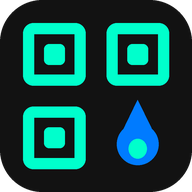
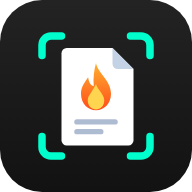
Nuove icone: foglio del rapporto con fiamma e mirino del QR
Sostituiscono il QR con la goccia: rappresentano il rapporto di intervento
sulla caldaia letto con la scansione. Sorgente SVG e script per i PNG.

Claude-Session: https://claude.ai/code/session_018KmDBTdfeKwPLaMZ2Z1mmm

diff --git a/sw.js b/sw.js
@@ -1,6 +1,6 @@
 // Service worker: salva tutti i file dell'app per l'uso offline.
 // Dopo ogni modifica ai file aumentare la versione, così i telefoni scaricano l'aggiornamento.
-const CACHE = 'testo-qr-v16';
+const CACHE = 'testo-qr-v17';
 const FILES = [
     './',
     './index.html',
@@ -39,6 +39,8 @@ const FILES = [
     './vendor/fontkit.umd.min.js',
     './vendor/LiberationSans-Regular.ttf',
     './vendor/LiberationSans-Bold.ttf',
+    './img/icon.svg',
+    './img/apple-touch-icon.png',
     './img/icon-192.png',
     './img/icon-512.png',
     './img/icon-maskable-512.png',

diff --git a/index.html b/index.html
@@ -17,8 +17,9 @@
     <meta name="referrer" content="no-referrer">
 
     <link rel="manifest" href="manifest.json">
+    <link rel="icon" type="image/svg+xml" href="img/icon.svg">
     <link rel="icon" type="image/png" href="img/icon-192.png">
-    <link rel="apple-touch-icon" href="img/icon-192.png">
+    <link rel="apple-touch-icon" href="img/apple-touch-icon.png">
 
     <title>Testo QR</title>
 

diff --git a/README.md b/README.md
@@ -79,7 +79,7 @@ Lo stile usa [Tailwind CSS 4](https://tailwindcss.com) nella versione "browser" 
 - `report.js`: creazione del PDF; `mail.js`: oggetto, testo e destinatari; `settings.js`: impostazioni
 - `scanner.js`, `tjf.js`: lettura del QR e decodifica dei dati Testo; `quickscans.js`: scansioni rapide
 - `geo.js`, `validate.js`, `util.js`, `ui.js`: posizione e indirizzo, codice fiscale, utilità, classi di stile
-- `sw.js`, `manifest.json`, `img/`: PWA offline
+- `sw.js`, `manifest.json`, `img/`: PWA offline. L'icona (foglio con fiamma e mirino del QR) è `img/icon.svg`; `node tools/make-icons.cjs` ne ricava i PNG (serve Playwright)
 - `vendor/`: librerie incluse nell'app, con le rispettive licenze
   - Tailwind CSS 4.3.3, build "browser" (stile, MIT)
   - zxing-wasm 3.1.5 (lettore QR, MIT)
